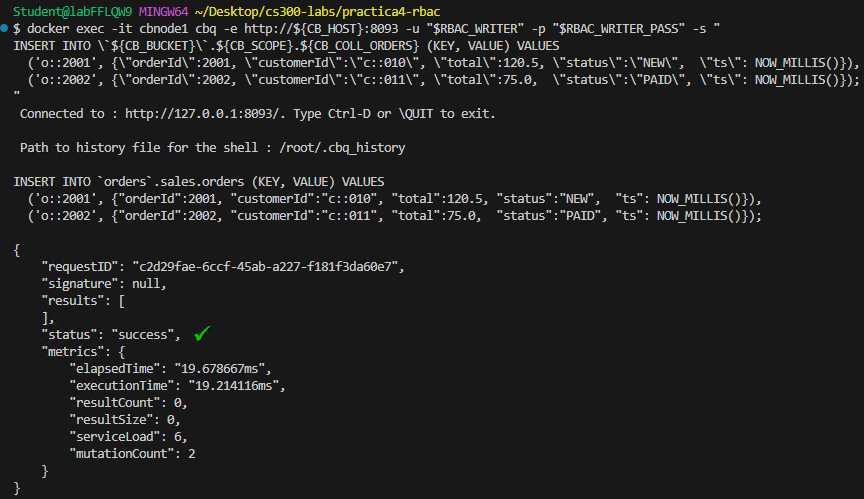
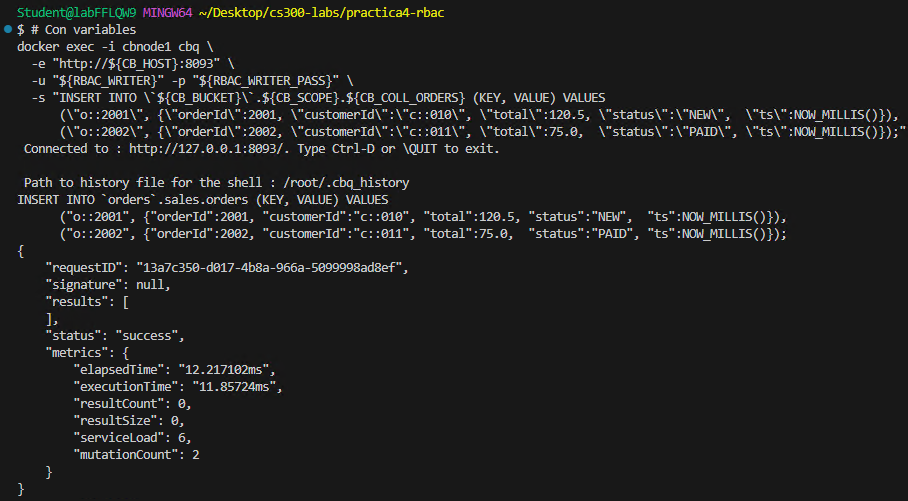
Ajustes practica 4

diff --git a/labs/lab4/lab4.md b/labs/lab4/lab4.md
@@ -310,7 +310,7 @@ Definirás tres usuarios locales con combinaciones de roles predefinidos acotado
     -c ${CB_HOST} -u "${CB_USER}" -p "${CB_PASS}" \
     --set --rbac-username "${RBAC_DBA}" --rbac-password ${RBAC_DBA_PASS} \
     --auth-domain local \
-    --roles "bucket_admin[\`${CB_BUCKET}\`],query_manage_index[\`${CB_BUCKET}\`]"
+    --roles "bucket_admin[${CB_BUCKET}],query_manage_index[${CB_BUCKET}]"
   ```
   ![cbase15]({{ page.images_base | relative_url }}/15.png)
 
@@ -343,16 +343,18 @@ Insertarás datos con `writer_app`, intentarás y validarás operaciones permiti
 - **Paso 20.** Inserta un documento con el usuario **writer_app** (permitido):
 
   ```bash
-  docker exec -it cbnode1 cbq -e http://${CB_HOST}:8093 -u "${RBAC_WRITER}" -p ${RBAC_WRITER_PASS} \
+  docker exec -i cbnode1 cbq \
+    -e "http://${CB_HOST}:8093" \
+    -u "${RBAC_WRITER}" -p "${RBAC_WRITER_PASS}" \
     -s "INSERT INTO \`${CB_BUCKET}\`.${CB_SCOPE}.${CB_COLL_ORDERS} (KEY, VALUE) VALUES
-        ('o::2001', {orderId:2001, customerId:'c::010', total:120.5, status:'NEW', ts:NOW_MILLIS()}),
-        ('o::2002', {orderId:2002, customerId:'c::011', total:75.0,  status:'PAID', ts:NOW_MILLIS()});"
+        (\"o::2001\", {\"orderId\":2001, \"customerId\":\"c::010\", \"total\":120.5, \"status\":\"NEW\",  \"ts\":NOW_MILLIS()}),
+        (\"o::2002\", {\"orderId\":2002, \"customerId\":\"c::011\", \"total\":75.0,  \"status\":\"PAID\", \"ts\":NOW_MILLIS()});"
   ```
   ![cbase17]({{ page.images_base | relative_url }}/17.png)
 
 - **Paso 21.** Ahora con `writer_app` intenta realizar un **SELECT** (debería **fallar** por falta de `query_select`):
 
-  > **IMPORTANTE:** Cuando ejecutas el **SELECT** con el usuario **writer** (sin el rol query_select), el servicio de Query responde HTTP 401 (no autorizado). Es normal el mensaje **ERROR 147...**
+  > **IMPORTANTE:** Cuando ejecutas el **SELECT** con el usuario **writer** (sin el rol query_select), el servicio de Query responde HTTP 401 (no autorizado). Es normal el mensaje **ERROR 174...**
   {: .lab-note .important .compact}
 
   ```bash
@@ -372,7 +374,7 @@ Insertarás datos con `writer_app`, intentarás y validarás operaciones permiti
 
 - **Paso 23.** Ahora prueba con `analyst_ro` ejecuta **INSERT** (debe **fallar**).
 
-  > **IMPORTANTE:** Cuando ejecutas el **INSERT** con el usuario **analyst_ro** (sin el rol writer), el servicio de insert responde HTTP 401 (no autorizado). Es normal el mensaje **ERROR 147...**
+  > **IMPORTANTE:** Cuando ejecutas el **INSERT** con el usuario **analyst_ro** (sin el rol writer), el servicio de insert responde HTTP 401 (no autorizado). Es normal el mensaje **ERROR 174...**
   {: .lab-note .important .compact}
 
   ```bash
